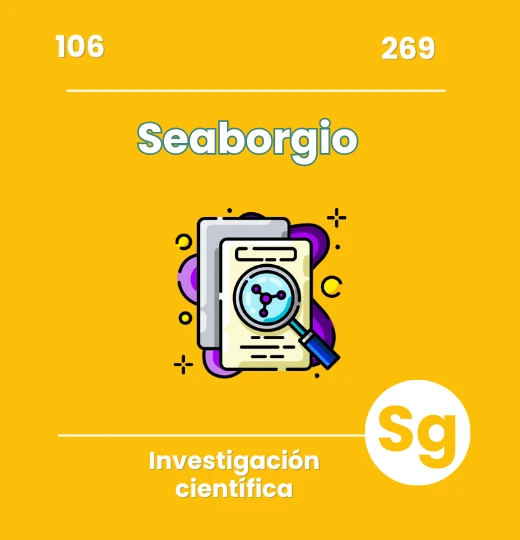
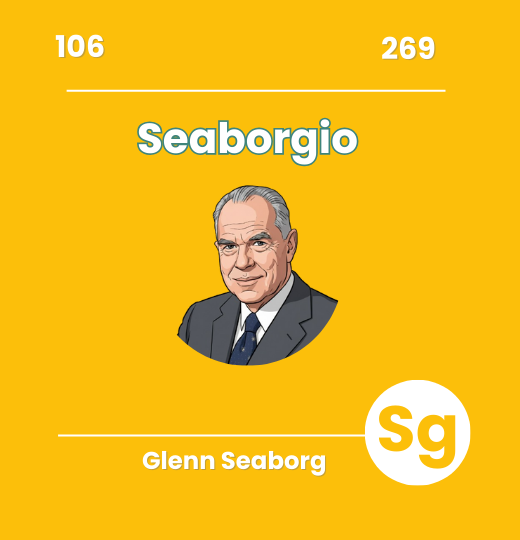
Actualizacion

diff --git a/src/App.jsx b/src/App.jsx
@@ -8,6 +8,7 @@ import MobileTable from './components/MobileTable';
 import logoMincyt from './assets/logo-mincyt.png';
 import Juegos from './components/Juegos';
 import munequitaImage from '/imagenes/animacion_bienvenida.png';
+import logoEsquina from './assets/logo-esquina.png';
 
 function App() {
   const tableRef = useRef(null);
@@ -92,7 +93,6 @@ function App() {
       <div className="loading-screen">
         <div className="loading-content">
           
-          
           <h1 className="loading-text">¡ÚNETE A LA AVENTURA CIENTÍFICA!</h1>
           
           <img 
@@ -100,11 +100,28 @@ function App() {
             alt="Muñequita de aventura" 
             className="munequita-imagen"
           />
-          
+
+          {/* Logo esquina inferior izquierda */}
+          <img 
+            src={logoEsquina}
+            alt="Logo esquina izquierda"
+            className="loading-logo-right"
+          />
+
+          {/* Logo MINCYT en esquina inferior derecha */}
+          <img 
+            src={logoMincyt}
+            alt="Logo MINCYT"
+            
+            className="loading-logo-left"
+          />
+
         </div>
       </div>
     );
   }
+
+
 
   if (error) {
     return (
@@ -193,6 +210,7 @@ function App() {
                   </div>
                 </div>
               )}
+              
             </div>
           ) : (
             <Juegos 
@@ -211,6 +229,13 @@ function App() {
           )}
         </main>
       </div>
+
+      <img 
+        src={logoEsquina} 
+        alt="Logo" 
+        className="logo-esquina-inferior"
+        
+      />
 
       {/* FOOTER FIJO - ESTRUCTURA CONSISTENTE */}
       <footer className="app-footer">

diff --git a/src/App.css b/src/App.css
@@ -854,3 +854,89 @@ body {
     transform: translateY(0) scale(1);
   }
 }
+
+/* Alternativa: logo dentro del contenedor de la tabla */
+.tabla-section {
+  position: relative;
+}
+
+.logo-esquina-inferior {
+  position: absolute;
+  bottom: -80px; /* Ajusta según la altura de tu footer */
+  right: 150px;
+  z-index: 10;
+  width: 100px;
+  height: auto;
+  opacity: 0.8;
+  transition: opacity 0.3s ease;
+  
+}
+
+.logo-esquina-inferior:hover {
+  opacity: 1;
+}
+
+/* Para la vista móvil */
+@media (max-width: 832px) {
+  .logo-esquina-inferior {
+    position: fixed;
+    bottom: 70px; /* Por encima del footer en móvil */
+    right: 10px;
+    width: 60px;
+  }
+}
+/* Pantalla de carga con altura fija */
+.loading-screen {
+  position: fixed;
+  top: 0;
+  left: 0;
+  width: 100vw;
+  height: 100vh;
+  background: transparent;
+  display: flex;
+  justify-content: center;
+  align-items: center;
+  z-index: 9999;
+  overflow: hidden;
+}
+
+.loading-content {
+  position: relative;
+  width: 100%;
+  height: 100%;
+}
+
+/* LOGO ESQUINA IZQUIERDA */
+.loading-logo-left {
+  position: fixed;
+  bottom: 0;
+  left: 0;
+  margin: 40px; /* <-- margen REAL desde ambos bordes */
+  width: 250px !important; 
+  opacity: 0.9;
+  z-index: 10000;
+}
+
+/* LOGO ESQUINA DERECHA */
+.loading-logo-right {
+  position: fixed;
+  bottom: 0;
+  right: 0;
+  margin: 30px; /* <-- margen REAL */
+  width: 100px;
+  opacity: 0.9;
+  z-index: 10000;
+}
+
+
+/* Ajustes para móviles */
+@media (max-width: 768px) {
+  .loading-logo-esquina {
+    width: 60px;
+  }
+
+  .loading-logo-mincyt {
+    width: 80px;
+    right: 85px;
+  }
+}
